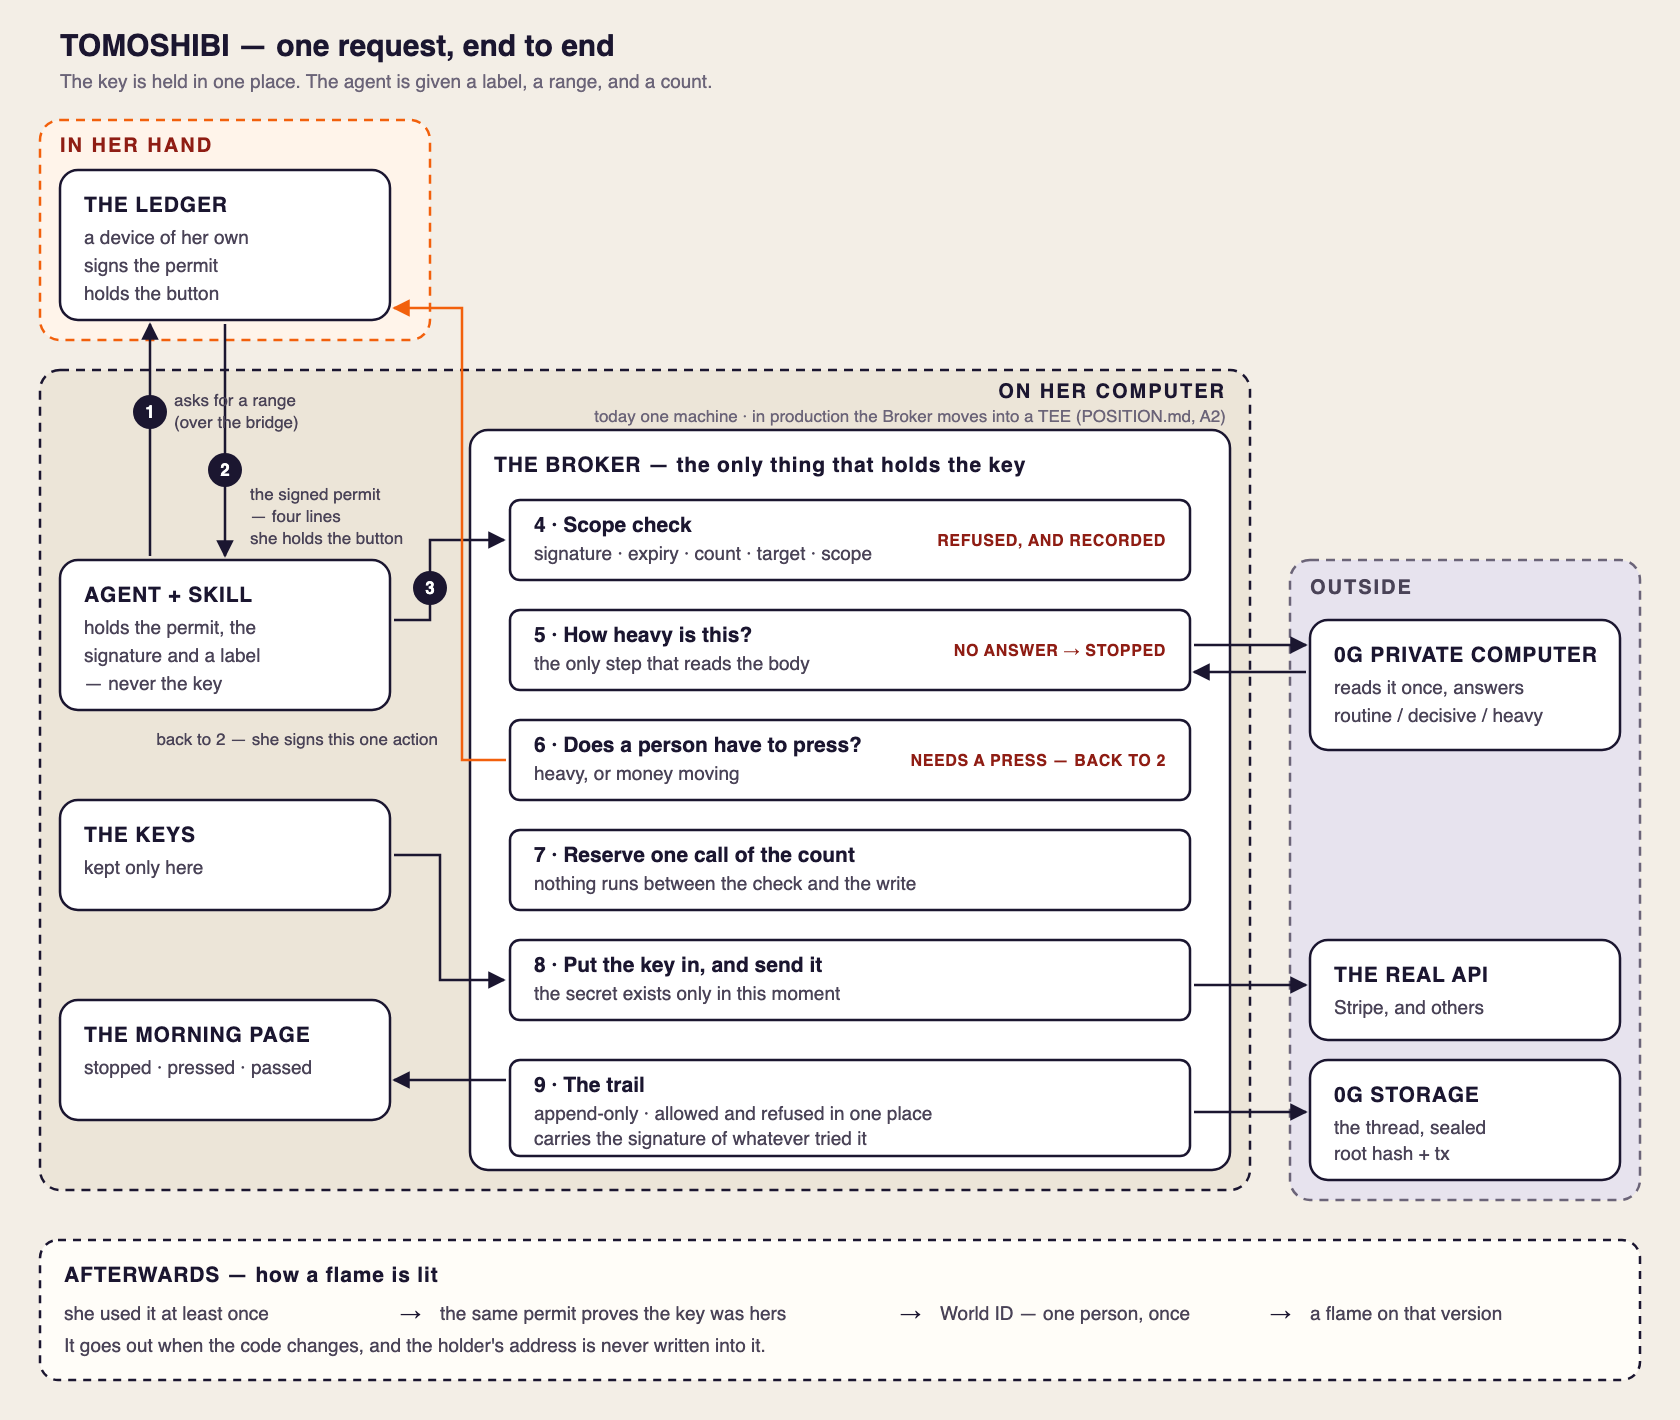
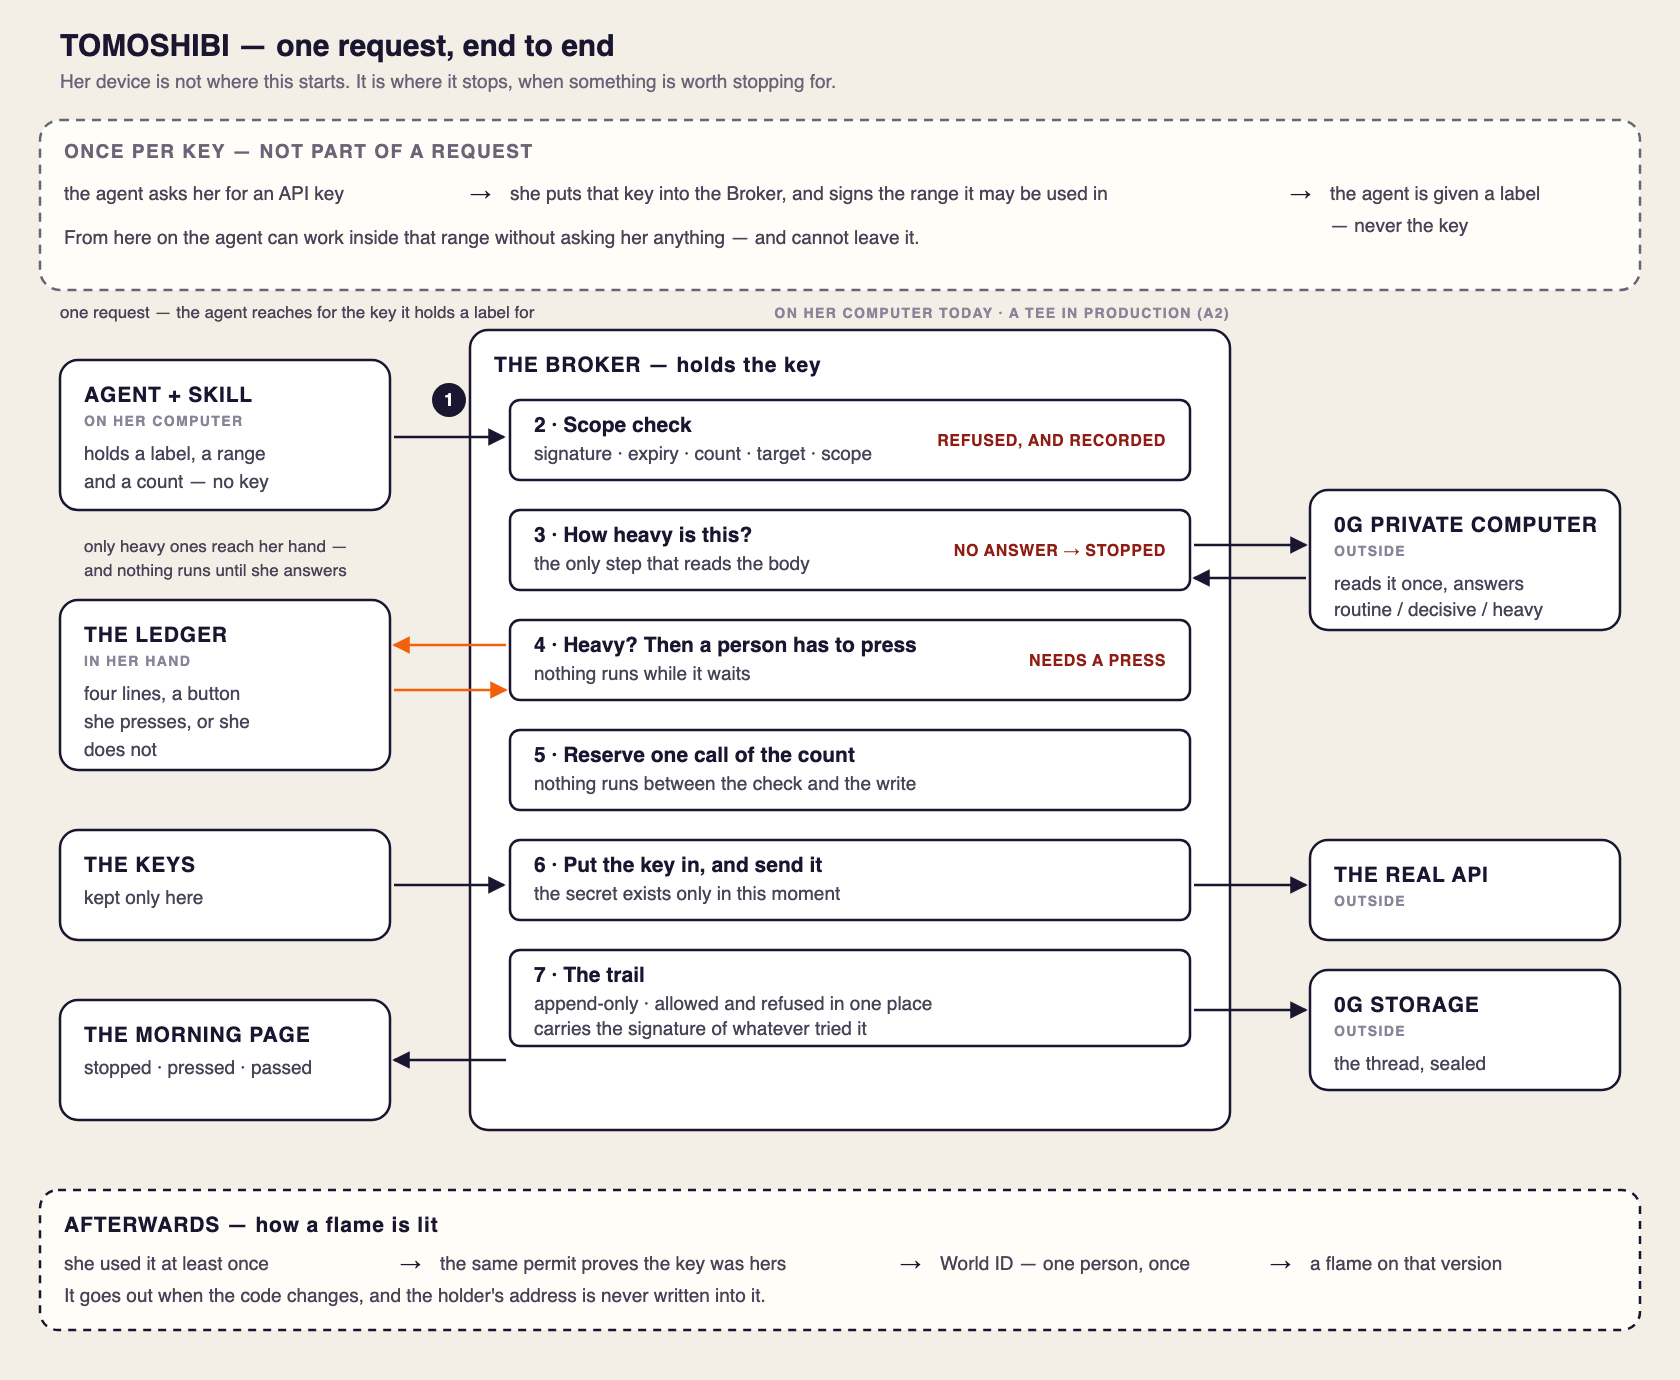
The architecture figure: keep setup and one request on separate timelines
The previous version numbered the one-time act of registering a key and
signing its range as step 1 of a request, which made the picture look as
though every request begins at the Ledger. It does not. A request begins
when the agent reaches for a key it holds a label for; the Ledger is
reached only when the weighing comes back heavy, and the press is what
lets the Broker put the key in and send it.

Setup is now a band of its own, and the numbered sequence is one request.

diff --git a/README.md b/README.md
@@ -45,10 +45,12 @@ node demo.mjs http://127.0.0.1:8797      # all five paths, end to end
 
 ![The whole system, with the order of the data numbered](assets/architecture.png)
 
-Three regions: her own device, the computer the agent runs on, and someone else's
-network. The numbers are the order a single request travels in. Beside each step is
-what that step refuses, so the picture shows where a request dies as well as where
-it goes. Lighting a flame is not part of a request, so it sits in its own band.
+Two timelines, kept apart. Putting a key into the Broker and signing the range it may
+be used in happens **once per key** — the top band. Everything numbered below it is a
+**single request**: it starts where the agent reaches for that key, and her device
+appears only at step 4, when the weighing came back heavy. Beside each step is what
+that step refuses, so the picture shows where a request dies as well as where it goes.
+Lighting a flame is not part of a request either, so it sits in its own band.
 
 ## What it does, in four parts
 
